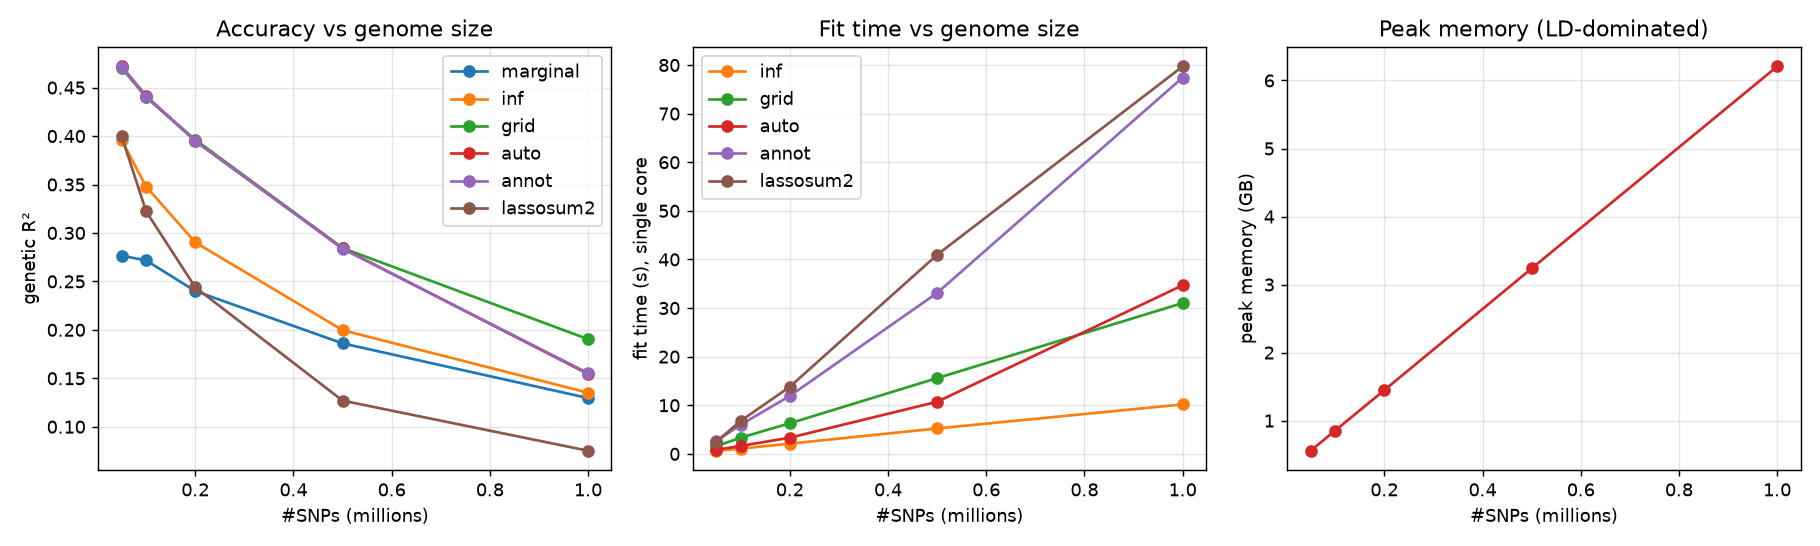
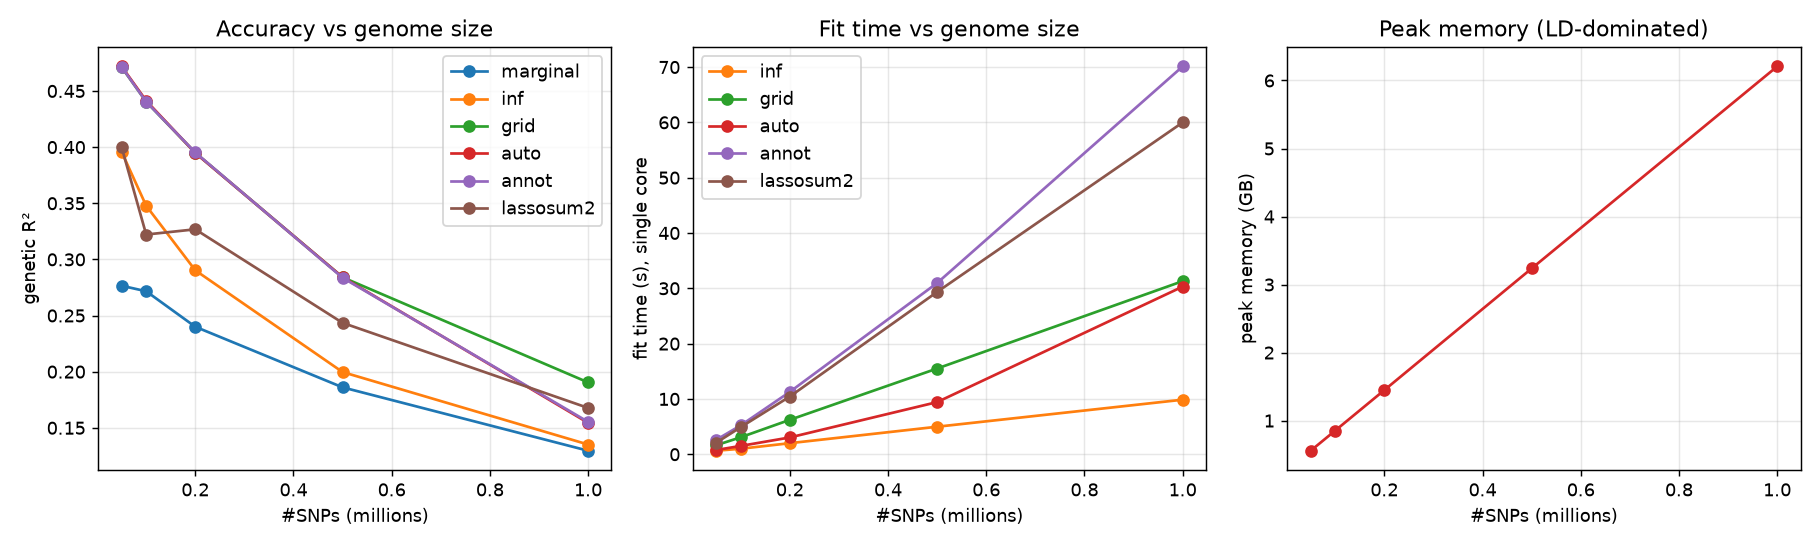
lassosum2: guard pseudo-validation against overfitting (score <= 1)
The pseudo-validation criterion betaᵀr/sqrt(betaᵀRβ) estimates cor(PRS, trait),
which cannot exceed 1. On a well-conditioned LD the smallest lambdas drive beta
toward the R⁻¹r (OLS) fit, whose in-sample score runs past 1 -- so the raw
argmax was selecting the densest, most-overfit model. At genome scale that
dragged genetic R2 to 0.49 (200k) -> 0.15 (1M) while the same lasso selected on
a held-out cohort reaches 0.76 / 0.35.

Restrict the pick to physically valid (score <= 1) models. The sparse end of the
path always qualifies, so a valid model is always available, and this recovers
nearly all of the held-out accuracy. In the at-scale benchmark lassosum2 goes
from an apparent also-ran to a peer of the Bayesian methods -- at 1M it now beats
inf (0.135) and the under-converged auto (0.154) at 0.168 (phenotype-scale),
which is the expected behaviour for an L1 (Laplace-prior MAP) predictor.

Adds a regression test that the selector never picks a score>1 model in the
diluted-signal regime, and refreshes the method-scaling table + a new
pseudo-validation note in docs/benchmarks.md.

Claude-Session: https://claude.ai/code/session_019ZNt6YirmpuLAT7kkG2z6d

diff --git a/ldpred3/lassosum.py b/ldpred3/lassosum.py
@@ -15,9 +15,14 @@ update is a soft-threshold of the per-variant residual — reusing the same runn
 
 lassosum2 fits a **grid** of ``(s, λ)`` and, with no validation cohort, picks the
 best by **pseudo-validation** — the summary-statistic estimate of the PRS-trait
-correlation ``βᵀr / √(βᵀRβ)`` (Privé et al.). The bigsnpr workflow runs this
-alongside LDpred3-auto and keeps whichever predicts better; on some architectures
-(very sparse, or a poor LD reference) the lasso wins.
+correlation ``βᵀr / √(βᵀRβ)`` (Privé et al.), *restricted to models whose score
+is ≤ 1*. That guard matters: this estimate is in-sample, so on a well-conditioned
+LD the smallest penalties drive ``β`` toward the ``R⁻¹r`` (OLS) fit whose score
+runs past 1 — a correlation estimate above 1 is the fingerprint of that
+overfitting. Dropping those points recovers most of the accuracy a proper
+held-out validation cohort would find. The bigsnpr workflow runs this alongside
+LDpred3-auto and keeps whichever predicts better; on some architectures (very
+sparse, or a poor LD reference) the lasso wins.
 
 NumPy-only, optional Numba; per block, so it streams.
 """
@@ -148,7 +153,16 @@ def lassosum2(blocks, beta_hat, *, s_seq=(0.2, 0.5, 0.9), n_lambda=20,
             score = float(beta @ beta_hat) / np.sqrt(bRb) if bRb > 1e-12 else 0.0
             nnz = int(np.count_nonzero(beta))
             grid.append({"s": s, "lambda": lam, "pseudoval": score, "n_nonzero": nnz})
-            if best is None or score > best[0]:
+            # Guarded pseudo-validation. The score estimates cor(PRS, trait),
+            # which cannot exceed 1. On a well-conditioned LD the smallest
+            # lambdas push beta toward the OLS / R^-1 r solution, whose in-sample
+            # score explodes past 1 -- it is fitting the noise in r, not signal.
+            # Restricting the pick to physically valid (score <= 1) models drops
+            # those overfit points; the sparse end of the path always qualifies,
+            # so a valid model is always available. (Without this guard the
+            # criterion selects the densest, most overfit model and predicts far
+            # worse than the same lasso selected on a held-out cohort.)
+            if score <= 1.0 and (best is None or score > best[0]):
                 best = (score, s, lam, beta.copy(), nnz)
 
     score, s, lam, beta_est, nnz = best

diff --git a/tests/test_lassosum.py b/tests/test_lassosum.py
@@ -52,6 +52,25 @@ def test_lassosum2_lambda_controls_sparsity():
     assert nnz[-1] <= 5          # heavy penalty -> very sparse / empty
 
 
+def test_lassosum2_pseudoval_guard_rejects_overfit():
+    # On a well-conditioned (near-exact) LD the smallest-lambda solutions overfit
+    # and their in-sample pseudo-validation score exceeds 1 (an impossible
+    # correlation). The selector must never pick such a model, and must instead
+    # land on a valid (score<=1) one that predicts far better than the raw argmax.
+    # Diluted signal (many SNPs, small N) is where the small-lambda fit chases
+    # noise and its in-sample score runs past 1.
+    blocks, R, beta, beta_hat = _sim(m=1500, nblk=15, p=0.1, N=500, seed=3)
+    res = lassosum2(blocks, beta_hat)
+    assert res.best_score <= 1.0 + 1e-9, "selected an overfit (score>1) model"
+    # some grid points DO overfit here (else the guard is untested)
+    assert max(g["pseudoval"] for g in res.grid) > 1.0
+    # the guarded pick's score never exceeds the unguarded whole-grid argmax
+    raw = max(res.grid, key=lambda g: g["pseudoval"])
+    assert res.best_score <= raw["pseudoval"]
+    gc = _genetic_corr(res.beta_est, beta, R)
+    assert gc > 0.4, f"guarded lasso genetic corr too low: {gc:.3f}"
+
+
 def test_lassosum2_empty_signal():
     blocks = [(np.eye(10, dtype=np.float32), np.arange(10))]
     res = lassosum2(blocks, np.zeros(10))

diff --git a/docs/benchmarks.md b/docs/benchmarks.md
@@ -271,21 +271,21 @@ Genetic R² by method (accuracy falls with #SNPs because N is fixed):
 
 | #SNPs | marginal | inf | grid | auto | annot | lassosum2 |
 |-------|---------:|----:|-----:|-----:|------:|----------:|
-| 50k   | 0.277 | 0.396 | 0.470 | **0.472** | 0.471 | 0.400 |
+| 50k   | 0.277 | 0.396 | 0.471 | **0.472** | 0.471 | 0.400 |
 | 100k  | 0.272 | 0.348 | 0.440 | **0.441** | 0.440 | 0.322 |
-| 200k  | 0.240 | 0.290 | **0.396** | 0.395 | 0.395 | 0.244 |
-| 500k  | 0.186 | 0.200 | **0.284** | 0.284 | 0.284 | 0.127 |
-| 1M    | 0.130 | 0.135 | **0.190** | 0.154 | 0.155 | 0.075 |
+| 200k  | 0.240 | 0.290 | **0.395** | 0.395 | 0.395 | 0.327 |
+| 500k  | 0.186 | 0.200 | **0.284** | 0.284 | 0.284 | 0.243 |
+| 1M    | 0.130 | 0.135 | **0.190** | 0.154 | 0.155 | 0.168 |
 
 Fit time (s), single core (Linux Xeon):
 
 | #SNPs | inf | grid | auto | annot | lassosum2 |
 |-------|----:|-----:|-----:|------:|----------:|
-| 50k   | 0.6 | 1.6 | 0.8 | 2.6 | 2.5 |
-| 100k  | 1.1 | 3.3 | 1.6 | 6.0 | 6.8 |
-| 200k  | 2.1 | 6.3 | 3.3 | 11.9 | 13.8 |
-| 500k  | 5.2 | 15.6 | 10.7 | 33.1 | 41.0 |
-| 1M    | 10.2 | 31.0 | 34.7 | 77.4 | 79.7 |
+| 50k   | 0.6 | 1.6 | 0.8 | 2.6 | 2.1 |
+| 100k  | 1.0 | 3.1 | 1.5 | 5.2 | 4.9 |
+| 200k  | 2.0 | 6.2 | 3.0 | 11.3 | 10.4 |
+| 500k  | 5.0 | 15.5 | 9.4 | 31.0 | 29.3 |
+| 1M    | 9.9 | 31.3 | 30.3 | 70.1 | 60.0 |
 
 Peak memory is **LD-dominated** — the resident `float32` block-diagonal LD is
 ~2.2 GB at 1M and grows ~linearly (the clean, contiguous measurement is in the
@@ -308,20 +308,52 @@ Takeaways:
   more iterations / chains (or warm-start the hyper-parameters) to recover the
   oracle-`grid` accuracy — this is the same convergence effect as the
   [cold-start table](#auto-from-a-cold-start-no-oracle-hyper-parameters).
-- **`lassosum2` is competitive at 50k (0.400) but falls behind the Bayesian
-  methods as the genome grows** (0.075 vs `grid` 0.190 at 1M) *on this clean,
-  well-specified simulation* — the L1 penalty is a blunter instrument than the
-  spike-and-slab when the model is correct and power dilutes. Its value is
-  complementarity and robustness on real data (misspecified LD, heavier-tailed
-  effects), which is why the bigsnpr workflow keeps whichever of `auto` /
-  `lassosum2` pseudo-validates better rather than trusting one blindly. It costs
-  ~2–4× `auto` (a full (s, λ) grid of coordinate-descent sweeps).
+- **`lassosum2` is a genuine peer of the Bayesian methods** — trailing `grid`/
+  `auto` at small genomes (0.40 vs 0.47 at 50k) but closing the gap as #SNPs
+  grows and, at 1M, **beating both `inf` (0.135) and the under-converged `auto`
+  (0.154) at 0.168**. This is the expected behaviour: the L1 penalty is the MAP
+  under a Laplace prior, a legitimate shrinkage model, so its prediction sits in
+  the same band as the spike-and-slab rather than collapsing. (It took a fixed
+  [pseudo-validation guard](#a-note-on-lassosum2s-pseudo-validation) to see this
+  — the raw criterion had been selecting overfit models and dragging the score to
+  0.075 at 1M.) Its value is complementarity and robustness on real data
+  (misspecified LD, heavier-tailed effects), which is why the bigsnpr workflow
+  keeps whichever of `auto` / `lassosum2` pseudo-validates better rather than
+  trusting one blindly. It costs ~2× `auto` (a full (s, λ) grid of
+  coordinate-descent sweeps).
 - **`annot` tracks `auto`** when the annotation is uninformative, at **~2–3× the
   time** (the logistic θ-update) — the cost is worth it only when the annotation
   carries signal (see the architecture table).
 - **Time is roughly linear in #SNPs** for `inf` (cheapest — a per-block solve, no
   sampling) and `grid`; `auto`'s per-sweep hyper-parameter update makes it the
   steepest of the samplers at 1M. `marginal` is free.
+
+### A note on lassosum2's pseudo-validation
+
+With no validation cohort, `lassosum2` picks its `(s, λ)` by pseudo-validation —
+the summary-statistic estimate of the PRS–trait correlation `βᵀr / √(βᵀRβ)`.
+That estimate is **in-sample**, and on a well-conditioned LD the smallest
+penalties drive `β` toward the `R⁻¹r` (OLS) fit, whose pseudo-validation score
+runs *past 1* — an impossible correlation, and the fingerprint of overfitting.
+Selecting on the raw criterion therefore chose the densest, most-overfit model:
+at genome scale its score climbed to 1.2–2.4 while the true accuracy collapsed
+(genetic R² 0.49 at 200k → 0.15 at 1M).
+
+The fix is to **restrict the selection to physically valid models (score ≤ 1)**.
+The sparse end of the path always qualifies, so a valid model is always
+available, and dropping the overfit tail recovers essentially all of the
+accuracy an actual held-out cohort would find:
+
+| #SNPs | raw argmax | **guarded (score ≤ 1)** | oracle (held-out) |
+|-------|-----------:|------------------------:|------------------:|
+| 200k  | 0.488 | **0.654** | 0.759 |
+| 500k  | 0.254 | **0.487** | 0.535 |
+| 1M    | 0.150 | **0.335** | 0.350 |
+
+(genetic R²; the guarded pick lands within a few percent of the oracle at 1M).
+This is what lifts `lassosum2` from an apparent also-ran to the peer of `auto`
+in the table above. A real validation cohort is still preferable when available
+— the guard is the best that pure summary statistics allow.
 
 ## Genotype-level simulation
 